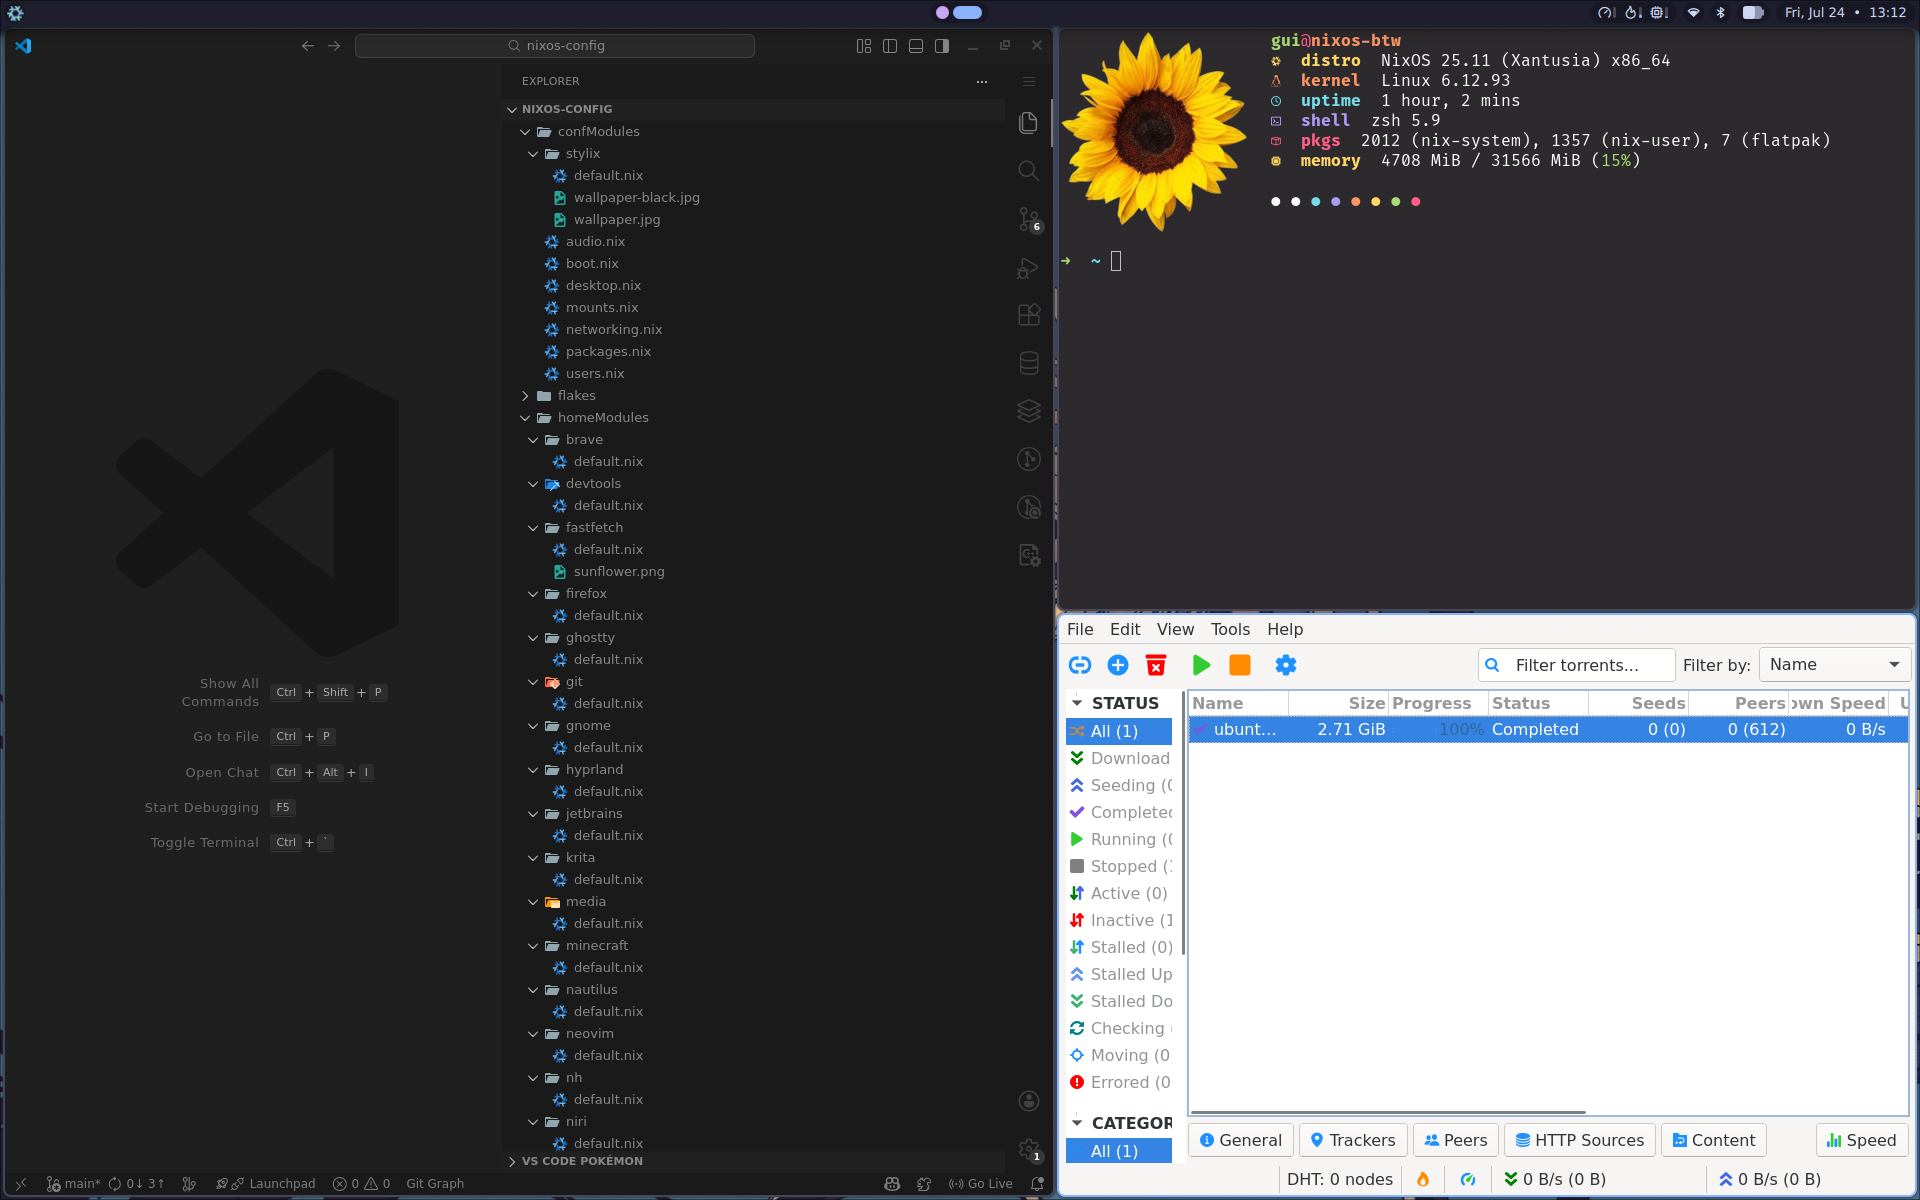
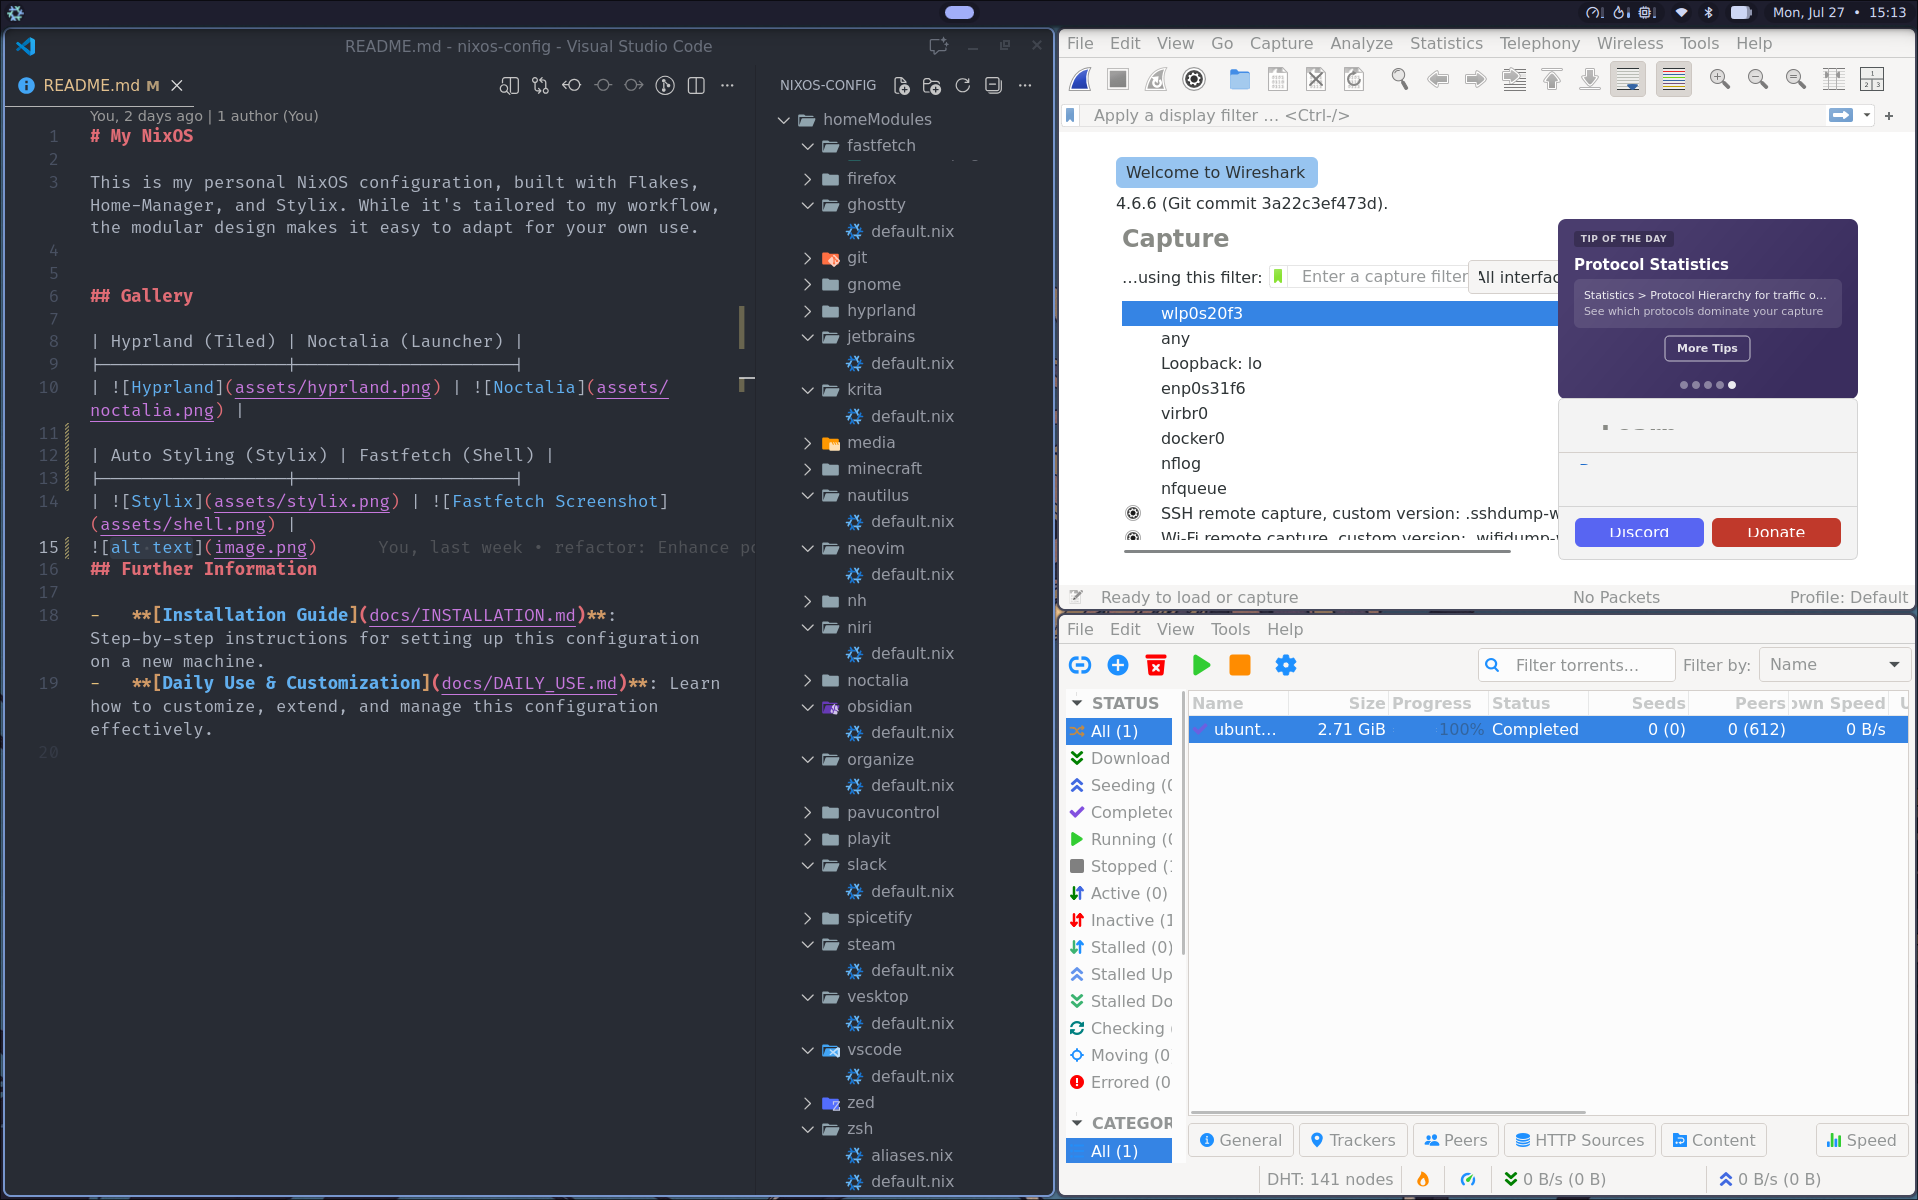
misc: update README hyprland photo

diff --git a/README.md b/README.md
@@ -8,7 +8,9 @@ This is my personal NixOS configuration, built with Flakes, Home-Manager, and St
 | Hyprland (Tiled) | Noctalia (Launcher) |
 |------------------|---------------------|
 | ![Hyprland](assets/hyprland.png) | ![Noctalia](assets/noctalia.png) |
-| **Auto Styling (Stylix)** | **Fastfetch (Shell)** |
+
+| Auto Styling (Stylix) | Fastfetch (Shell) |
+|------------------|---------------------|
 | ![Stylix](assets/stylix.png) | ![Fastfetch Screenshot](assets/shell.png) |
 
 ## Further Information
